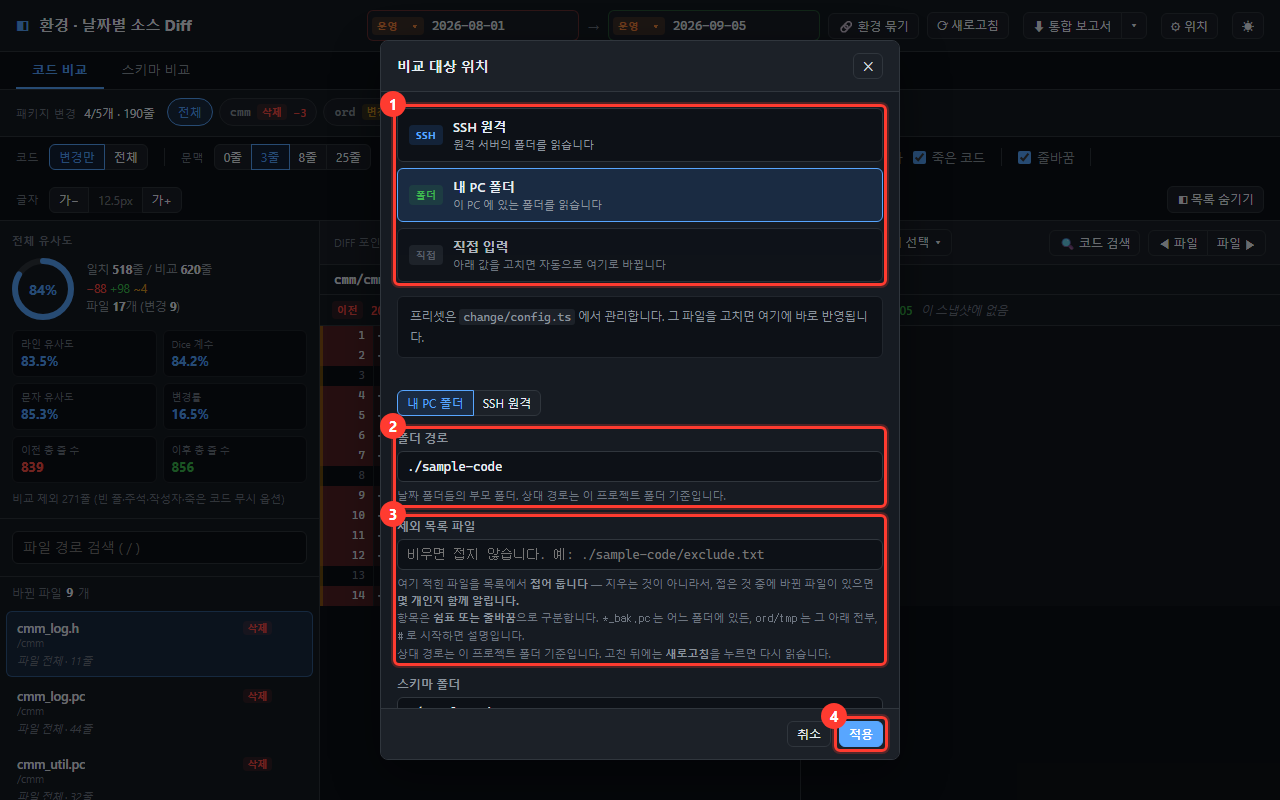
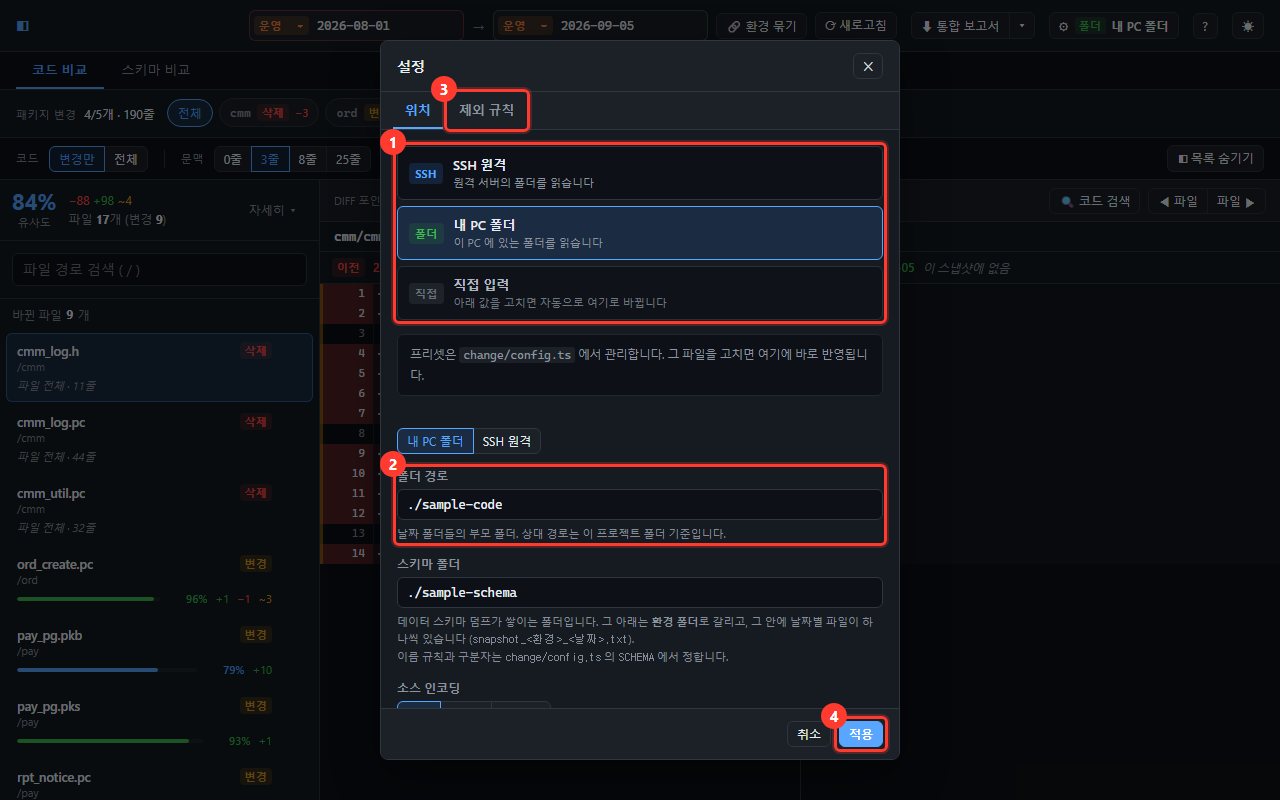
docs(shots): 바뀐 화면에 맞춰 스크린샷 장면을 고치고 3장을 더 찍는다
- 설정 장면: 헤더의 ⚙ 버튼으로 열고, ③ 을 제외 목록 파일 대신 "제외 규칙" 탭에 둔다
- 새 장면: 11 보기 옵션 팝오버 · 12 ⊘ 뒤 되돌리기 알림 · 13 도움말
- 캡처 전에 애니메이션을 끈다 — 헤드리스 캡처가 등장 애니메이션 중간(투명)에서 찍히기도 한다
- 되돌리기 알림은 6초 뒤 접히는데 캡처는 가상 시간 20초 뒤라, React 밖 복제본을 붙여 고정한다
- 유사도 카드 펼침 상태(cd-summary-open)도 장면마다 지운다
- 전체 그림을 다시 찍는다

diff --git a/scripts/shot.html b/scripts/shot.html
@@ -66,6 +66,7 @@
         localStorage.removeItem('cd-my-exclude')
         localStorage.removeItem('cd-my-exclude-schema')
         localStorage.removeItem('cd-schema-kinds')
+        localStorage.removeItem('cd-summary-open')
       }
 
       const sleep = (ms) => new Promise((r) => setTimeout(r, ms))
@@ -128,14 +129,14 @@
           mark(doc, '.split-panes', 5, 3)
         },
 
-        /* 2. 위치 설정 패널 */
+        /* 2. 설정 창 — 헤더의 위치 버튼으로 연다 (위치 탭) */
         async settings(doc) {
-          byText(doc, 'button', '위치')?.click()
+          doc.querySelector('.source-btn')?.click()
           await until(() => doc.querySelector('.settings .preset-list'))
           await sleep(400)
           mark(doc, '.settings .preset-list', 1, 4)
           mark(doc, '.settings-body .field', 2, 4)
-          mark(doc, byText(doc, '.settings-body .field', '제외 목록 파일'), 3, 4)
+          mark(doc, byText(doc, '.settings-tab', '제외 규칙'), 3, 3)
           mark(doc, byText(doc, '.settings button', '적용'), 4, 5)
         },
 
@@ -214,6 +215,39 @@
           mark(doc, '.date-menu .date-row.k-changed', 3, 2)
         },
 
+        /* 11. 보기 옵션 — 무시 · 줄바꿈 · 글자 크기를 모은 팝오버를 펼쳐 찍는다 */
+        async viewoptions(doc) {
+          doc.querySelector('.view-options .btn')?.click()
+          await until(() => doc.querySelector('.vo-panel'))
+          await sleep(300)
+          mark(doc, '.view-options .btn', 1, 4)
+          mark(doc, '.vo-panel', 2, 3)
+        },
+
+        /* 12. ⊘ 로 접은 뒤 뜨는 되돌리기 알림 */
+        async undo(doc) {
+          const items = [...doc.querySelectorAll('.filelist .file-item')]
+          const target = items[1] ?? items[0]
+          target?.parentElement?.querySelector('.file-excl')?.click()
+          await until(() => doc.querySelector('.toast .toast-action'))
+          // 안내 알림은 6초 뒤 접히는데, 캡처는 가상 시간을 20초 흘린 뒤 찍는다 — 그대로 두면
+          // 박스만 남고 알림은 사라진다. React 가 모르는 복제본을 같은 자리에 붙여 둔다.
+          doc.body.appendChild(doc.querySelector('.toasts').cloneNode(true))
+          await sleep(300)
+          mark(doc, '.filelist-head', 1, 3)
+          mark(doc, '.toast', 2, 4)
+        },
+
+        /* 13. 도움말 — 헤더 ? 버튼 */
+        async help(doc) {
+          const button = doc.querySelector('[aria-label="도움말"]')
+          button?.click()
+          await until(() => doc.querySelector('.settings.help'))
+          await sleep(300)
+          mark(doc, button, 1, 3)
+          mark(doc, '.settings.help', 2, 2)
+        },
+
         /* 6. 코드 비교 화면 */
         async diff(doc) {
           mark(doc, '.optionbar', 1, 3)
@@ -243,6 +277,11 @@
 
       await new Promise((r) => frame.addEventListener('load', r, { once: true }))
       const doc = frame.contentDocument
+
+      // 헤드리스 캡처는 등장 애니메이션 중간(투명)에서 찍히기도 한다 — 알림이 빈 상자로 나온다
+      const still = doc.createElement('style')
+      still.textContent = '*, *::before, *::after { animation: none !important; transition: none !important; }'
+      doc.head.appendChild(still)
 
       // 비교가 끝나 목록이 뜰 때까지 기다린다 (스키마는 테이블 목록이다)
       await until(() => doc.querySelector('.filelist .file-item'))
